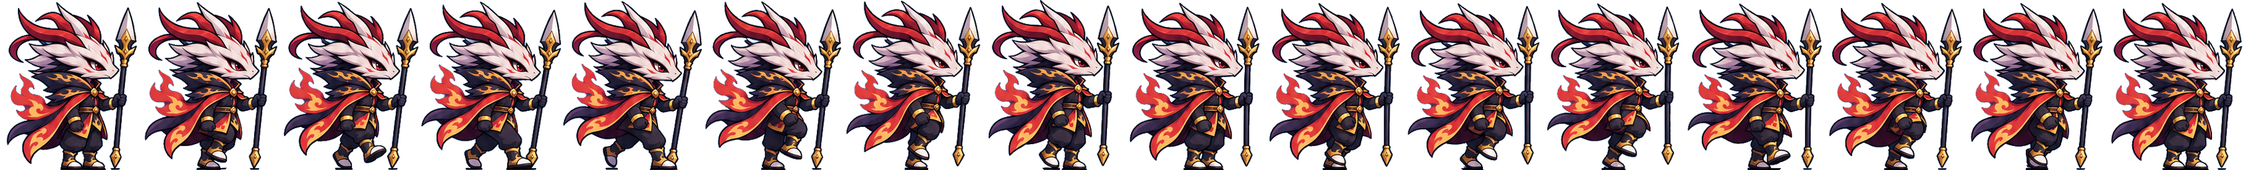
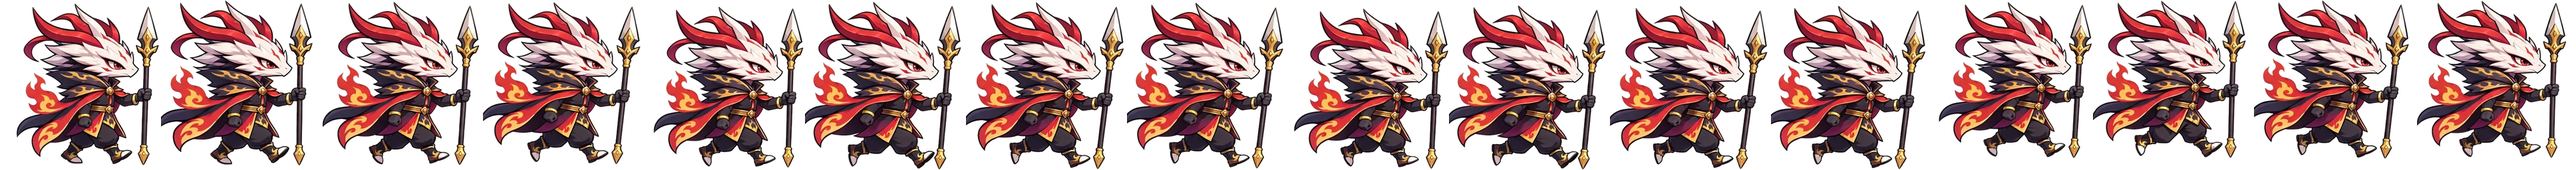
pixmap: the owner's low-step side walk; cutter handles white sheets

diff --git a/tools/art/blue_sheet_cut.py b/tools/art/blue_sheet_cut.py
@@ -20,13 +20,21 @@ Rn = int(sys.argv[4]) if len(sys.argv) > 4 else 4
 FH = int(sys.argv[5]) if len(sys.argv) > 5 else 0
 a = np.array(Image.open(src).convert('RGB')).astype(float); H, W = a.shape[:2]; cw, ch = W / C, H / Rn
 r, g, b = a[..., 0], a[..., 1], a[..., 2]
-blueness = np.clip(((b - np.maximum(r, g)) - 40) / 80, 0, 1)          # 1 = background blue, 0 = figure
+WHITE = a[:8, :8].min() > 225                                         # a sheet on white (Meta / ChatGPT often ignore the blue)
+if WHITE:   # background = near-white flooded from every cell border (white fur inside the outline stays)
+    near = (a.min(2) > 226) & (a.max(2) - a.min(2) < 26); blueness = np.zeros(a.shape[:2])
+    for i in range(C * Rn):
+        x0, y0 = int(round((i % C) * W / C)), int(round((i // C) * H / Rn)); x1, y1 = int(round((i % C + 1) * W / C)), int(round((i // C + 1) * H / Rn))
+        lb, n = nd.label(near[y0:y1, x0:x1]); e = set(np.unique(np.r_[lb[0], lb[-1], lb[:, 0], lb[:, -1]])) - {0}
+        blueness[y0:y1, x0:x1] = nd.gaussian_filter(np.isin(lb, list(e)).astype(float), .6)
+else:
+    blueness = np.clip(((b - np.maximum(r, g)) - 40) / 80, 0, 1)      # 1 = background blue, 0 = figure
 cells, lines = [], []
 for i in range(C * Rn):
     x0, y0 = int(round((i % C) * cw)), int(round((i // C) * ch)); x1, y1 = int(round((i % C + 1) * cw)), int(round((i // C + 1) * ch))
     c = a[y0:y1, x0:x1]; bl = blueness[y0:y1, x0:x1]; h, w = bl.shape
     fig = bl < .5
-    dark = c.max(2) < 80; lo = int(h * .75); cnt = dark[lo:].sum(1); ly = lo + int(np.argmax(cnt)) if cnt.max() > w * .3 else None
+    dark = c.max(2) < 80; lo = int(h * .75); cnt = dark[lo:].sum(1); ly = lo + int(np.argmax(cnt)) if cnt.max() > w * .3 and not WHITE else None
     if ly is not None:
         for y in range(ly - 3, min(h, ly + 4)):
             above = fig[max(0, y - 10):max(0, y - 4)].any(0); fig[y] &= above
@@ -34,9 +42,10 @@ for i in range(C * Rn):
     if fn:
         sz = nd.sum(fig, fl, range(1, fn + 1)); fig = np.isin(fl, np.where(sz > max(60, sz.max() * .004))[0] + 1)
     alpha = np.clip(1 - bl, 0, 1) * nd.binary_dilation(fig, iterations=1)
-    rgb = c.copy(); spill = np.clip(rgb[..., 2] - np.maximum(rgb[..., 0], rgb[..., 1]), 0, None) * (1 - alpha)   # take the blue out of soft edge pixels
-    rgb[..., 2] -= spill
-    cells.append(np.dstack([np.clip(rgb, 0, 255), alpha * 255]).astype(np.uint8)); lines.append(ly if ly is not None else h - 1)
+    rgb = c.copy()
+    if not WHITE: spill = np.clip(rgb[..., 2] - np.maximum(rgb[..., 0], rgb[..., 1]), 0, None) * (1 - alpha); rgb[..., 2] -= spill   # take the blue out of soft edge pixels
+    if ly is None: ys = np.where((alpha > .5).any(1))[0]; ly = int(ys.max()) if len(ys) else h - 1   # no ground line: the lowest pixel of the figure
+    cells.append(np.dstack([np.clip(rgb, 0, 255), alpha * 255]).astype(np.uint8)); lines.append(ly)
 hs, ws = min(c.shape[0] for c in cells), min(c.shape[1] for c in cells)
 cells = [c[:hs, :ws] for c in cells]
 foot = int(np.median(lines))
